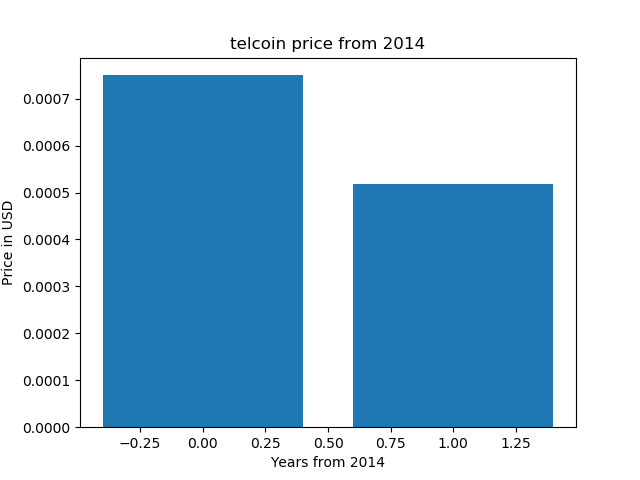
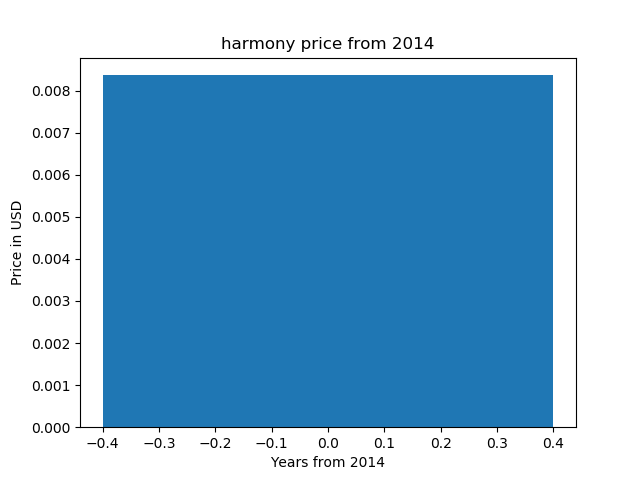
first commit

diff --git a/example.py b/example.py
@@ -10,7 +10,7 @@ from time import gmtime, strftime
 import matplotlib.pyplot as plt
 
 enddate = strftime("%Y%m%d", gmtime())
-r  = requests.get("https://coinmarketcap.com/currencies/telcoin/historical-data/?start=20140101&end={0}".format(enddate))
+r  = requests.get("https://coinmarketcap.com/currencies/harmony/historical-data/?start=20140101&end={0}".format(enddate))
 data = r.text
 
 soup = BeautifulSoup(data, "html.parser")
@@ -44,7 +44,7 @@ print(x)
 
 x = list(range(0, len(prices)))
 
-plt.title('telcoin price from 2014')
+plt.title('harmony price from 2014')
 plt.ylabel('Price in USD')
 plt.xlabel('Years from 2014')
 plt.bar(x, prices)

diff --git a/README.md b/README.md
@@ -1,6 +1,6 @@
-# telcoin price chart 
+# harmony price chart 
 
-telcoin price chart (matplotlib, python)
+harmony price chart (matplotlib, python)
 
 https://pythonprogramminglanguage.com
 
